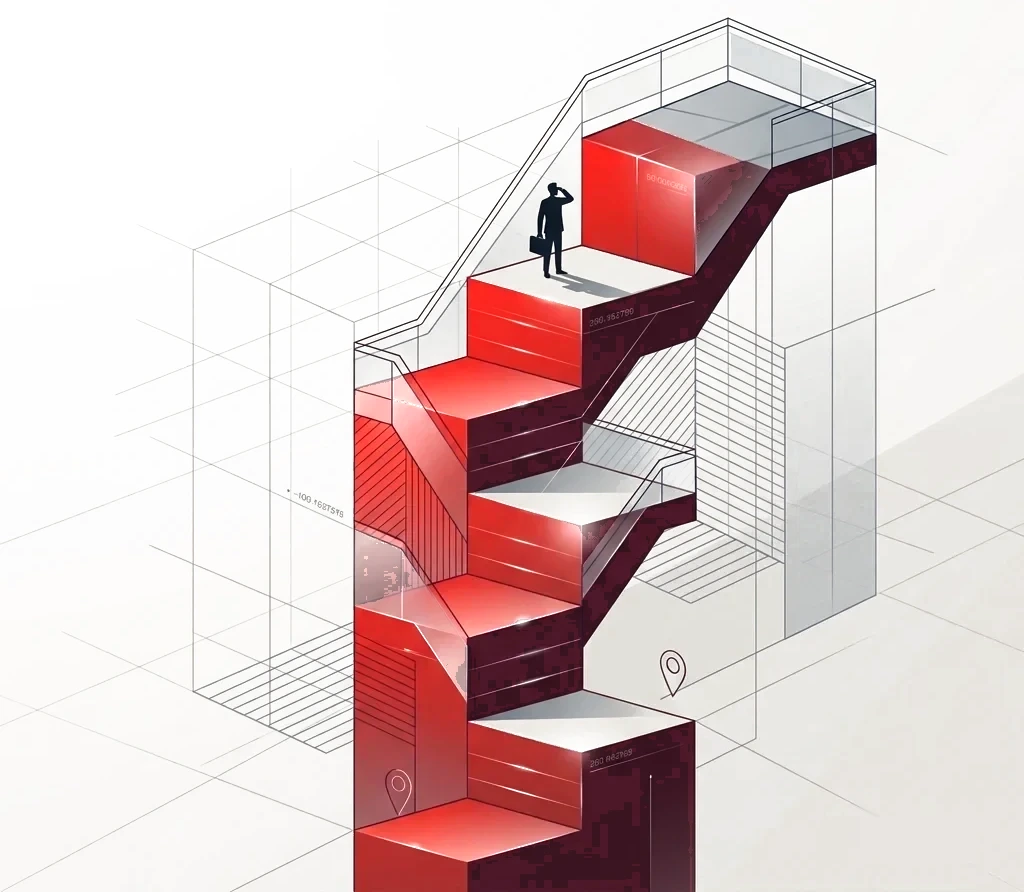
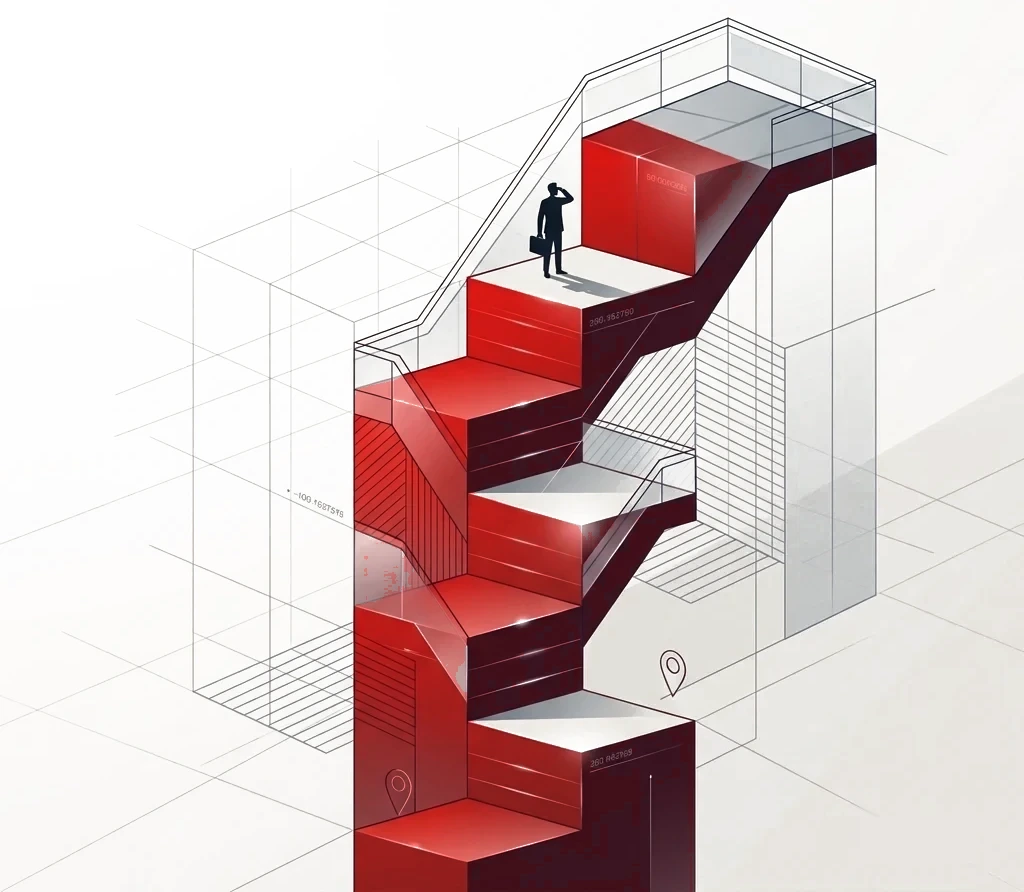
На первом экране один красный вместо трёх
Заказчик увидел на экране несколько разных красных. Так и было: кнопка
«Оставить заявку», «Найти» и подчёркивание вкладки шли фирменным
#BE2C28, заголовок «работы и жилья» — более ярким #E0453F, а марш на
рисунке своим третьим.

Корень — в токене, а не в рисунке. --accent-2 заведён «для текста на
тёмных полосах» и достался заголовку с тех времён, когда герой был
тёмным. Герой давно светлый, и яркий красный остался на нём рядом с
фирменным, уже ничего не решая: на светлом фоне фирменный читается с
запасом (5.87 : 1).

Поэтому заголовок переведён на --accent. В тёмной теме этот токен сам
становится светлым (#E8716C), поэтому заголовок там остаётся читаемым, и
красных на тёмном экране тоже один. --accent-2 остался там, где он и
нужен: надзаголовок призыва и ссылки в подвале — они на тёмных полосах.

Рисунок перекрашен в тот же #BE2C28, с поправкой на умножение: он лежит
на кремовом фоне, и фон его гасит, поэтому в файл кладётся цвет, который
ПОСЛЕ наложения даёт фирменный.

Попутно: наведение на кнопке первого экрана вело к #E0453F — светлее
заливки. Белая подпись на нём даёт 4.12 : 1, ниже порога для обычного
текста; это записано в самой палитре, и там же для этого случая заведён
--accent-hover, темнее фирменного. Кнопка переведена на него.

Проверено замером по готовому экрану: кнопка (190,45,41), «Найти»
(191,46,42), заголовок (192,50,46), светлые грани марша (180,50,47).

Claude-Session: https://claude.ai/code/session_011fXYga24FGMHsCQzjnaCbh

Changed region(s): [[0.3438, 0.3027, 0.5938, 1.0], [0.5625, 0.1211, 0.7188, 0.3027]]

diff --git a/app/globals.css b/app/globals.css
@@ -42,8 +42,9 @@
   /* Свет за курсором: на светлом фоне он осветляет заметно, на тёмном
      почти неразличим — там яркое пятно читается как клякса. */
   --glow: rgba(255,255,255,.85);
-  /* Красный ярче фирменного — для текста на тёмных полосах (заголовок
-     героя, надзаголовок призыва, ссылки в подвале). */
+  /* Красный ярче фирменного — для текста на ТЁМНЫХ полосах: надзаголовок
+     призыва, ссылки в подвале. Заголовку героя он больше не достаётся:
+     герой светлый, и там этот красный спорил с фирменным. */
   --accent-2: #E0453F;
   /* Наведение на кнопке с фирменной заливкой. ТЕМНЕЕ фирменного, а не
      светлее: кнопка подписана белым, и на прежнем светлом #E0453F он давал
@@ -720,7 +721,13 @@ main:has(.auth) { max-width: none; padding: 0; }
      которого глаз теряет начало следующей строки. Доля 46vw держит
      заголовок левее чертежа лестницы, который занимает правую половину. */
   max-width: min(800px, 46vw); }
-.hero h1 em { font-style: normal; color: var(--accent-2); }
+/* Фирменный красный, а не яркий. --accent-2 заведён «для текста на
+   тёмных полосах» и достался заголовку с тех времён, когда герой был
+   тёмным. Герой давно светлый, и на нём рядом оказались два разных
+   красных: заголовок ярче, кнопка «Оставить заявку» — фирменный. В
+   тёмной теме --accent сам становится светлым (#E8716C), поэтому
+   заголовок там остаётся читаемым. */
+.hero h1 em { font-style: normal; color: var(--accent); }
 .hero .lede { color: var(--muted); font-size: 1.0625rem; line-height: 1.5; max-width: 56ch; margin: 0; }
 .props { display: flex; flex-wrap: wrap; gap: 10px 26px; margin: 6px 0 0; padding: 0; list-style: none; }
 .prop { display: flex; align-items: center; gap: 9px; font-size: 0.875rem; font-weight: 600;
@@ -744,7 +751,10 @@ main:has(.auth) { max-width: none; padding: 0; }
   font-weight: 700; text-decoration: none; white-space: nowrap;
   transition: background .18s, color .18s, border-color .18s, transform .18s; }
 .go-main { background: var(--accent); color: #fff; border: 1px solid var(--accent); }
-.go-main:hover { background: var(--accent-2); border-color: var(--accent-2); }
+/* Темнее, а не светлее: кнопка подписана белым, и на светлом #E0453F
+   он давал 4.12 : 1 — ниже порога для обычного текста. Тот же приём, что
+   у остальных залитых кнопок сайта. */
+.go-main:hover { background: var(--accent-hover); border-color: var(--accent-hover); }
 .go-side { background: var(--panel); color: var(--fg); border: 1px solid var(--line); }
 .go-side:hover { border-color: var(--accent); color: var(--accent); }
 /* Нажатие видно без скриптов: кнопка проседает на пиксель. Единственное
